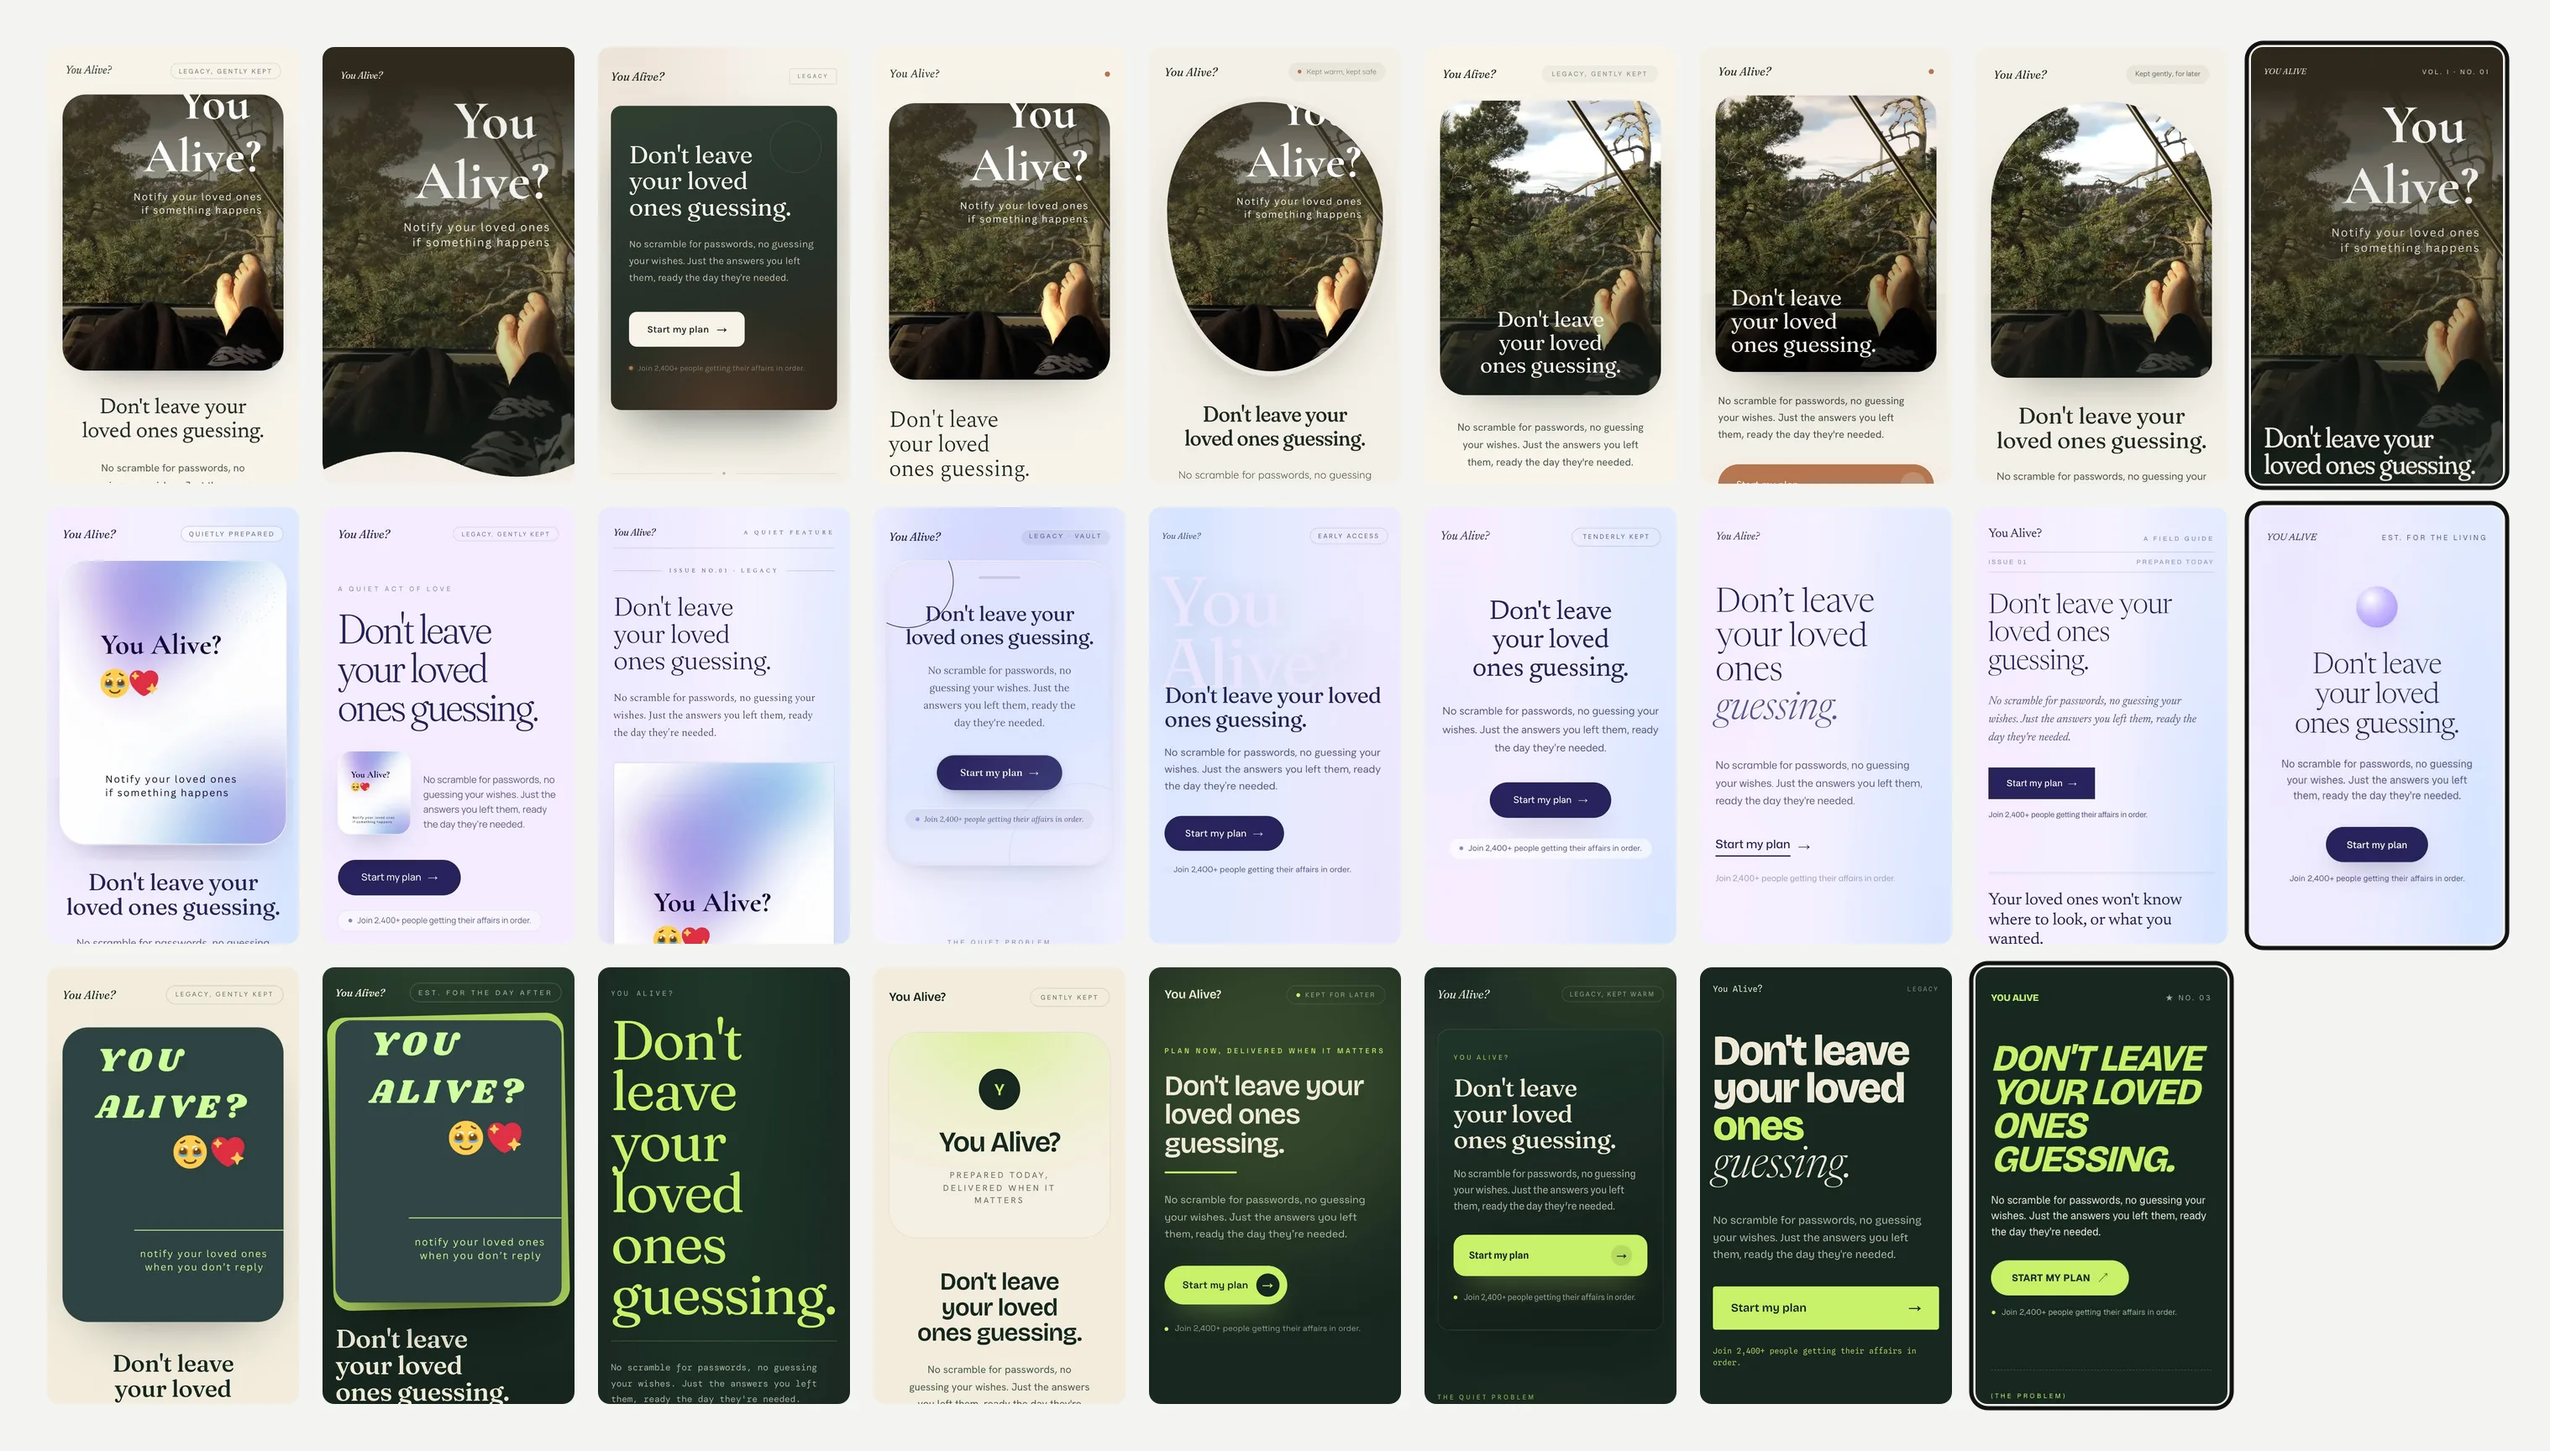
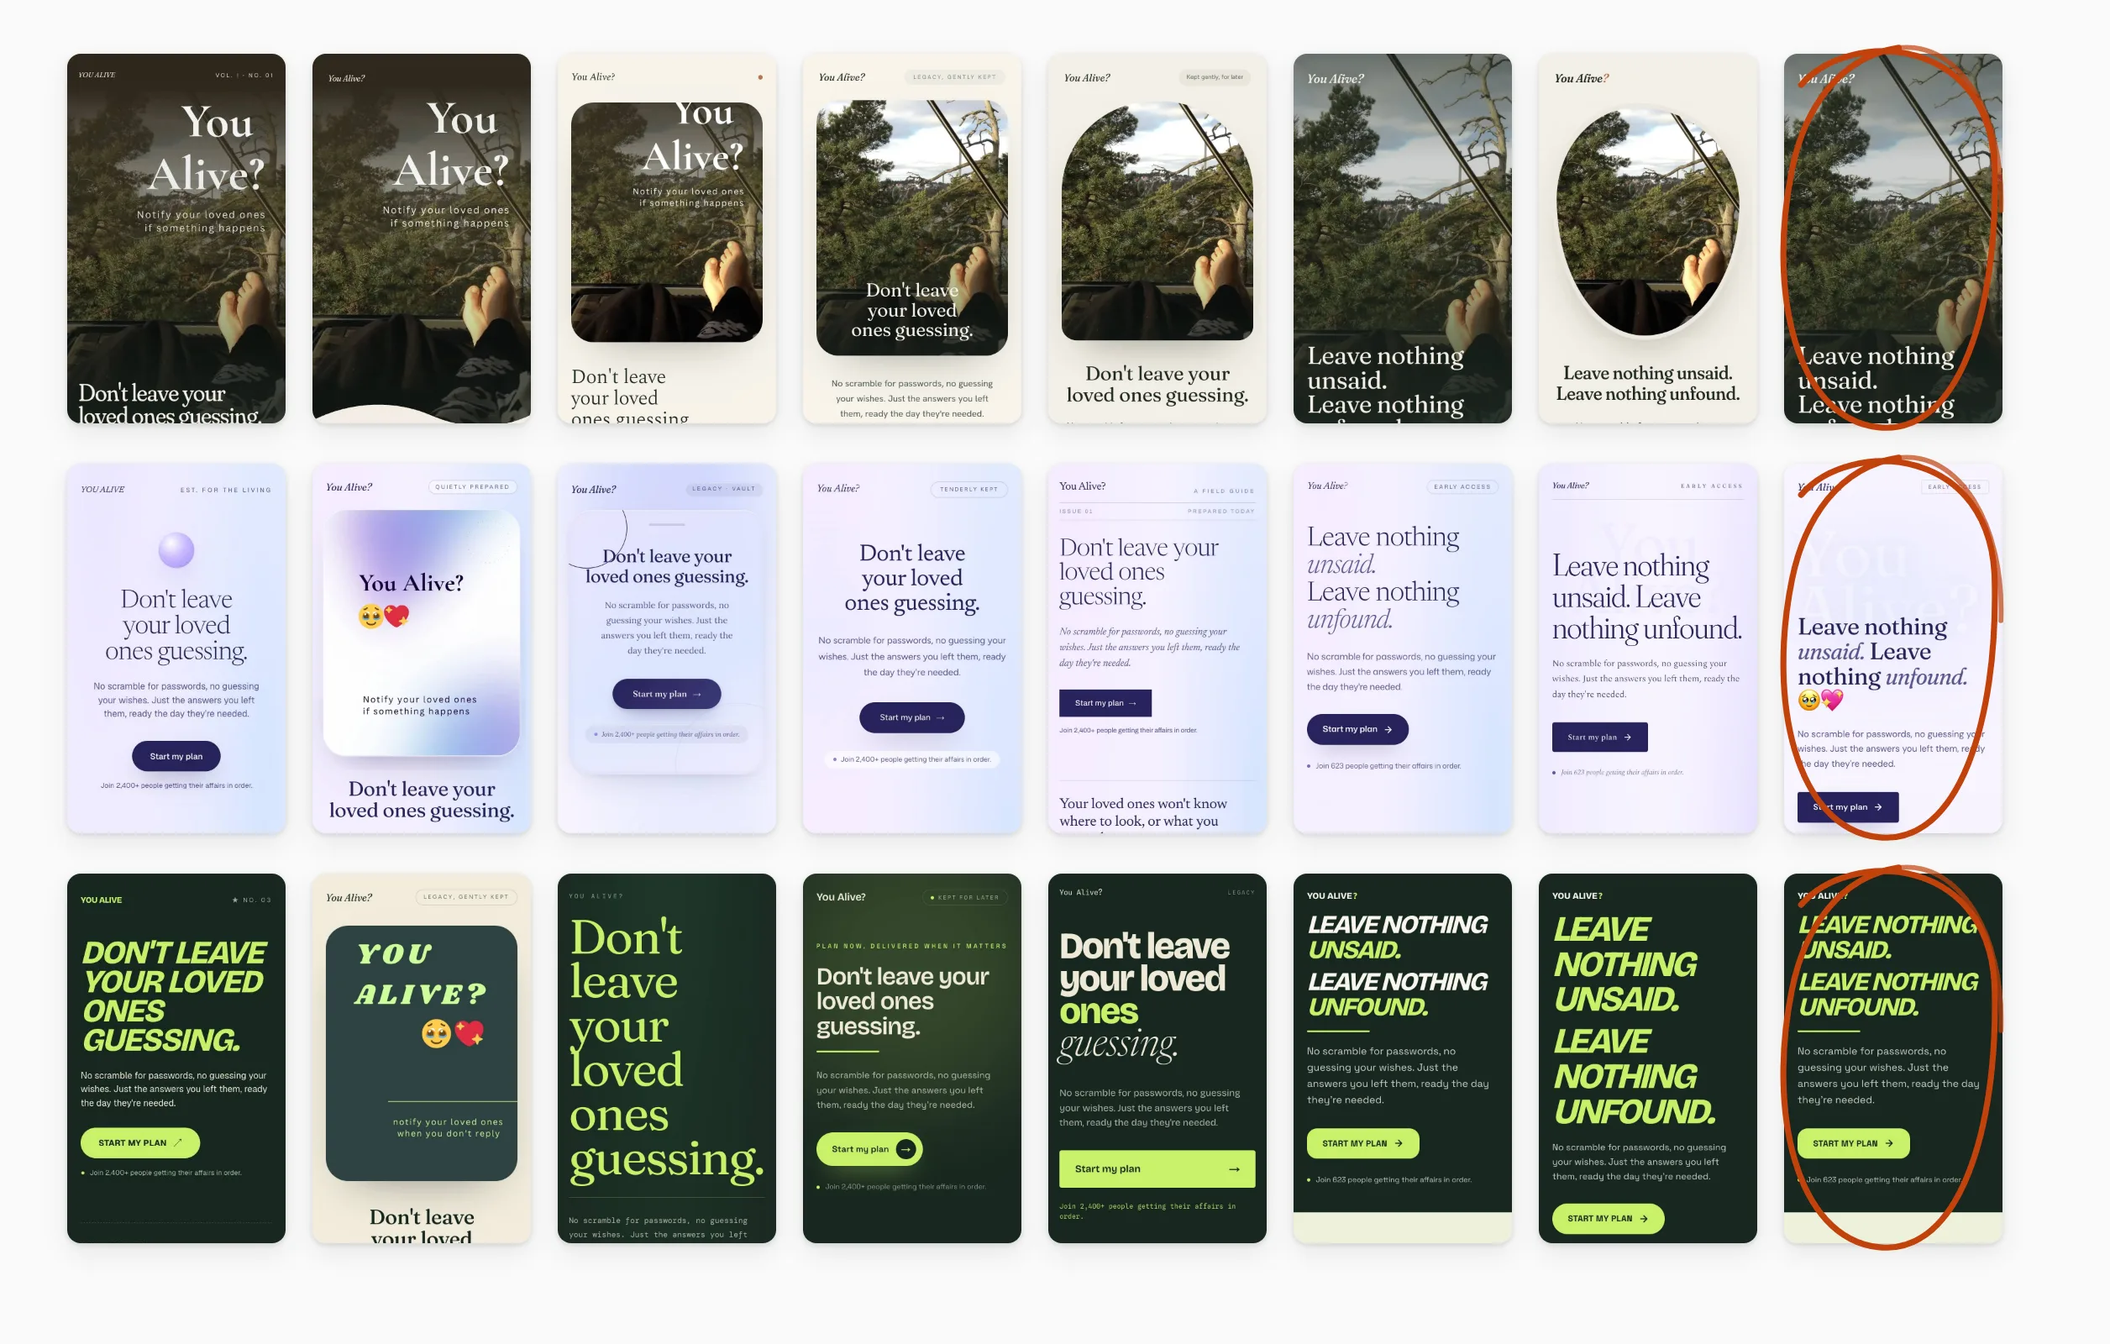
feat(case-study): etape 3 You Alive, 40+ pages generees, 9 raffinees a la main, grille du bake-off avec cercles
Liens Markdown inline rendus par renderInline (accent-text, externes).
Grille du bake-off regeneree depuis les vignettes de la galerie, une ligne
par creative, les trois designs retenus entoures a la main.

diff --git a/components/case-study-content.tsx b/components/case-study-content.tsx
@@ -1,10 +1,26 @@
 import React from "react";
 
+/* Inline Markdown : `**gras**` et `[texte](url)`. Les liens sortent en
+   accent-text (DESIGN.md, "accent links"), externes par defaut. */
 export function renderInline(text: string): React.ReactNode {
-  const parts = text.split(/(\*\*[^*]+\*\*)/g);
+  const parts = text.split(/(\*\*[^*]+\*\*|\[[^\]]+\]\([^)]+\))/g);
   return parts.map((part, i) => {
     if (part.startsWith("**") && part.endsWith("**")) {
       return <strong key={i}>{part.slice(2, -2)}</strong>;
+    }
+    const link = part.match(/^\[([^\]]+)\]\(([^)]+)\)$/);
+    if (link) {
+      return (
+        <a
+          key={i}
+          href={link[2]}
+          target="_blank"
+          rel="noopener noreferrer"
+          className="text-accent-text hover-supported:text-text-primary transition-colors"
+        >
+          {link[1]}
+        </a>
+      );
     }
     return part;
   });

diff --git a/content/case-studies/you-alive-v2.md b/content/case-studies/you-alive-v2.md
@@ -58,13 +58,11 @@ picks: The four headlines drafted for the hero, and the one the founder kept.
 - [x] Leave nothing unsaid. Leave nothing unfound.
 - [ ] What your family will need to know, if you're not there to tell them.
 
-### 3. Wired one measurement chain so every event lands in Meta, PostHog and Notion
+### 3. Generated 40+ landing pages with AI tools, then hand-refined 9 of them, three per creative ad, to present to the client
 
-A single track call on the client fans out each event to PostHog and, for the ones Meta needs, to the Pixel. The server mirrors the events that matter through the Conversions API with the same event id, so Meta merges browser and server into one conversion instead of counting twice, and ad blockers stop eating part of the signal. Meta optimises on the click event, which has volume, and we report on the email event, which has value.
+With the copy frozen, design was the only thing left to vary. One day generating 40+ pages with [Google Stitch](https://stitch.withgoogle.com), [frontend-design](https://github.com/anthropics/claude-plugins-public/tree/main/plugins/frontend-design) and [taste-skill](https://github.com/Leonxlnx/taste-skill), every iteration landing in a gallery, for an overview and a first cut by the client. Then three days by hand on 9 of them: strip the AI slop look, fix hierarchy, spacing, rhythm and contrast, dose the animations, and assemble three candidates per creative. A round of feedback from her, one more pass. Since this was a fake-door test, none of it was engineered: no design system, no components, no code review. Vibe-coded on purpose, quick and dirty on a basic UI style guide, because the page only had to live long enough to answer one question.
 
-- **PostHog EU** behind a first-party proxy, with session replay, capture scoped to the three routes so the gallery and previews stop polluting the data.
-- **Notion as the leads base**: each email arrives with its variant, UTM parameters and country, so a lead can be traced back to the ad that produced it.
-- **QA proven in production**: a Playwright run showing PageView, InitiateCheckout and Lead on the network, the proxy answering 200, the Notion row complete, before the ads went live.
+![The bake-off gallery, one row per creative ad, generated and hand-refined iterations side by side, the three designs the client picked circled](/images/Experiences/You%20Alive/you-alive-research-bakeoff-grid.webp)
 
 ### 4. Diagnosed 4 days at zero in PostHog and moved the count to 5 with one line of copy
 
